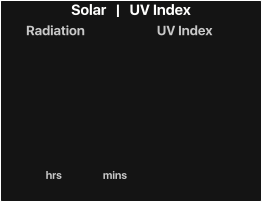
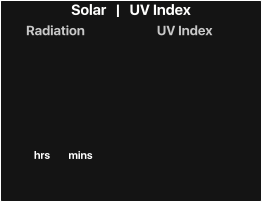
Added Peak Sun Hours

diff --git a/lib/derivedVariables.py b/lib/derivedVariables.py
@@ -916,7 +916,6 @@ def CardinalWindDirection(windDir,windSpd=[1,'mps']):
         cardinalWind = [windDir[0],windDir[1],Direction,Description]
 
     # Return cardinal wind direction and description
-    #print(cardinalWind)
     return cardinalWind
 
 def BeaufortScale(windSpd):
@@ -986,7 +985,7 @@ def UVIndex(uvLevel):
     # Return UV Index icon
     return uvIndex
     
-def peakSunHours(Radiation,peakSun,Device,Config):
+def peakSunHours(Radiation,peakSun,Astro,Device,Config):
 
     # Define current time in station timezone
     Tz = pytz.timezone(Config['Station']['Timezone'])
@@ -999,7 +998,7 @@ def peakSunHours(Radiation,peakSun,Device,Config):
         # Download rainfall data for current day
         Data = requestAPI.weatherflow.Today(Device,Config)
 
-        # Calculate Peak Sun H. Return NaN if API call has failed
+        # Calculate Peak Sun Hours. Return NaN if API call has failed
         if requestAPI.weatherflow.verifyResponse(Data,'obs'):
             Data = Data.json()['obs']
             if Config['Station']['SkyID']:
@@ -1011,18 +1010,12 @@ def peakSunHours(Radiation,peakSun,Device,Config):
         else:
             peakSun = [NaN,'hrs',NaN,Now]
         
-        # Return Peak Sun Hours
-        return peakSun
-        
     # At midnight, reset Peak Sun Hours
-    if Now.date() > peakSun[3].date():
+    elif Now.date() > peakSun[3].date():
     
         # Calculate Peak Sun Hours
         kwh = Radiation[0] * 1/60
         peakSun = [kwh/1000,'hrs',kwh,Now]
-
-        # Return Peak Sun Hours
-        return peakSun
 
     # Add current Radiation value to Peak Sun Hours
     else:
@@ -1030,9 +1023,32 @@ def peakSunHours(Radiation,peakSun,Device,Config):
         # Calculate Peak Sun Hours
         kwh = peakSun[2] + (Radiation[0] * 1/60)
         peakSun = [kwh/1000,'hrs',kwh,Now]
+        
+    # Calculate proportion of daylight hours that have passed    
+    daylightTotal  = (Astro['Sunset'][0] - Astro['Sunrise'][0]).total_seconds()
+    if Astro['Sunrise'][0] <= Now <= Astro['Sunset'][0]:   
+        daylightElapsed = (Now - Astro['Sunrise'][0]).total_seconds()
+    else:  
+        daylightElapsed = daylightTotal  
+    daylightFactor = daylightElapsed/daylightTotal
+      
+    # Define daily solar potential text
+    if peakSun[0]/daylightFactor == 0:
+        peakSun.append('[color=646464]None[/color]')
+    elif peakSun[0]/daylightFactor < 2:
+        peakSun.append('[color=9BBC2F]Limited[/color]')
+    elif peakSun[0]/daylightFactor < 4:
+        peakSun.append('[color=E6A241]Moderate[/color]')
+    elif peakSun[0]/daylightFactor < 6:
+        peakSun.append('[color=E64B24]Good[/color]')
+    else:
+        peakSun.append('[color=8680BC]Excellent[/color]')
 
-        # Return Peak Sun Hours
-        return peakSun 
+    print(peakSun[0]/daylightFactor)
+    print(peakSun)
+
+    # Return Peak Sun Hours
+    return peakSun 
 
 # # CHECK STATUS OF SKY AND AIR MODULES
 # # --------------------------------------------------------------------------

diff --git a/main.py b/main.py
@@ -176,7 +176,7 @@ class wfpiconsole(App):
                               ('AvgWind','--'),        ('MaxGust','--'),       ('RainRate','---'),
                               ('TodayRain','--'),      ('YesterdayRain','--'), ('MonthRain','--'),
                               ('YearRain','--'),       ('Radiation','----'),   ('UVIndex','----'),
-                              ('peakSun','--'),        ('outTemp','--'),       ('outTempMin','---'),    
+                              ('peakSun','-----'),     ('outTemp','--'),       ('outTempMin','---'),    
                               ('outTempMax','---'),    ('inTemp','--'),        ('inTempMin','---'),     
                               ('inTempMax','---'),     ('Humidity','--'),      ('DewPoint','--'),       
                               ('Pres','---'),          ('MaxPres','---'),      ('MinPres','---'),       

diff --git a/lib/websocket.py b/lib/websocket.py
@@ -230,7 +230,7 @@ def Sky(Msg,Console):
     MaxGust   = derive.MaxWindGust(WindGust,maxGust,Device,Console.config)
     WindSpd   = derive.BeaufortScale(WindSpd)
     WindDir   = derive.CardinalWindDirection(WindDir,WindSpd)
-    peakSun   = derive.peakSunHours(Radiation,peakSun,Device,Console.config)
+    peakSun   = derive.peakSunHours(Radiation,peakSun,Console.Astro,Device,Console.config)
     UVIndex   = derive.UVIndex(UV)
 
     # Convert observation units as required
